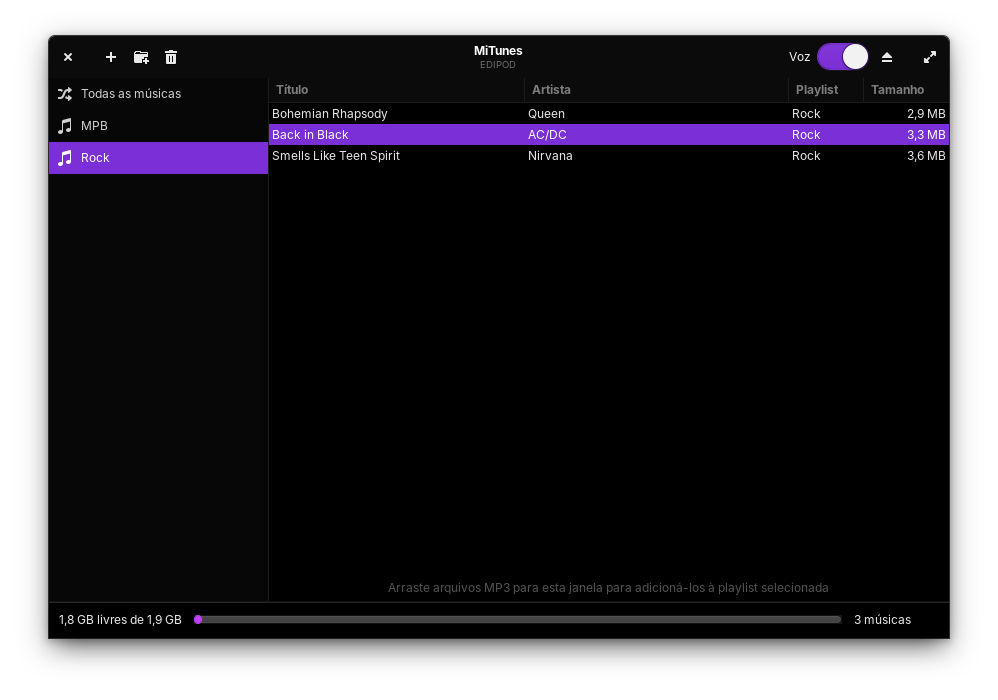
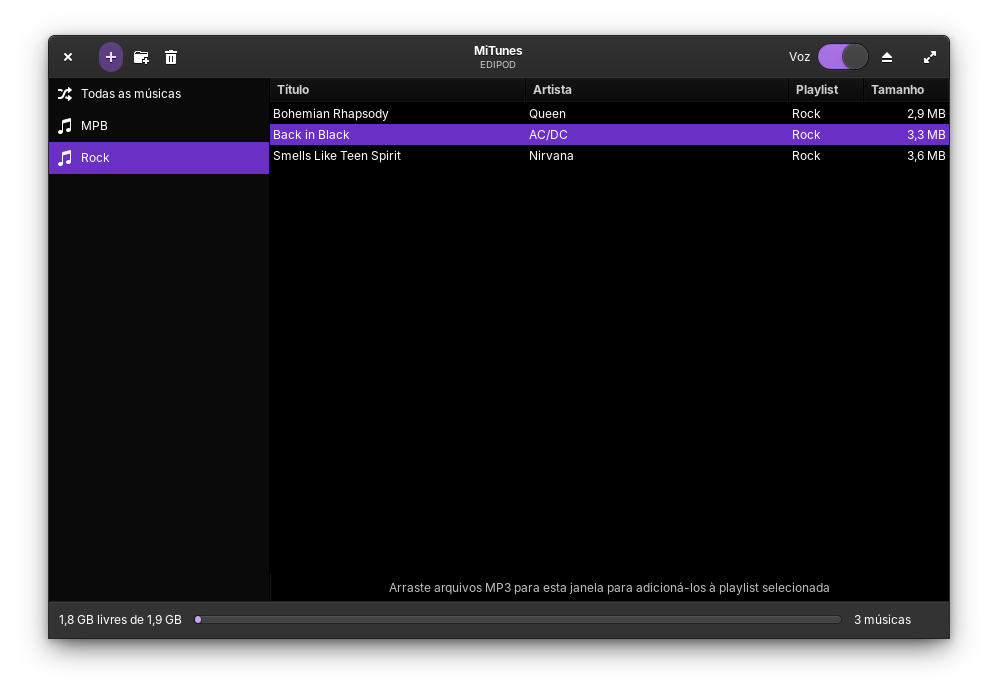
MiTunes: tema escuro nativo, icone preto e alerta de virus compacto
Usa o tema escuro do elementary com destaque roxo (grape) em vez de
sobrescrever cores, para botoes e dialogos ficarem legiveis. Icone preto
com nota roxa. Aviso de virus vira um icone pequeno na barra de titulo.

Changed region(s): [[0.0311, 0.03, 0.9629, 0.24], [0.0311, 0.81, 0.9629, 0.93]]

diff --git a/mitunes.py b/mitunes.py
@@ -25,52 +25,32 @@ from gi.repository import Gdk, GLib, Gtk, Pango  # noqa: E402
 import shuffle_sync  # noqa: E402
 
 TODAS = "__todas__"
+SUSPEITOS = ("Activador.vbs",)
+INVALIDOS_FAT = re.compile(r'[<>:"/\\|?*\x00-\x1f]')
 
-# Tema preto: fundo preto de verdade, texto claro e destaque no roxo do icone
+# Tema preto: usa o tema escuro nativo do elementary com destaque roxo ("grape"), para botoes,
+# dialogos e campos ficarem corretos, e so escurece as areas de conteudo ate o preto.
+TEMA_ROXO = "io.elementary.stylesheet.grape"
 CSS_PRETO = b"""
-window, .background, stack, scrolledwindow, viewport { background-color: #000000; color: #e8e8e8; }
-headerbar, .titlebar {
-    background: #0b0b0b; border-color: #1c1c1c; box-shadow: none; color: #f2f2f2;
-}
-headerbar .title { color: #ffffff; }
-headerbar .subtitle { color: #8c8c8c; }
-headerbar button { color: #e8e8e8; background: transparent; border-color: transparent; box-shadow: none; }
-headerbar button:hover { background: #1f1f1f; }
-headerbar button:disabled { color: #4a4a4a; }
-list.sidebar, .sidebar { background-color: #070707; border-right: 1px solid #1c1c1c; }
-list.sidebar row { color: #d0d0d0; }
-list.sidebar row:selected, list.sidebar row:selected label, list.sidebar row:selected image {
-    background-color: #7b2fd6; color: #ffffff;
-}
-treeview.view { background-color: #000000; color: #e8e8e8; }
-treeview.view:selected { background-color: #7b2fd6; color: #ffffff; }
-treeview.view header button {
-    background: #0b0b0b; color: #9a9a9a; border-color: #1c1c1c; box-shadow: none;
-}
-.dim-label { color: #6f6f6f; }
-separator { background-color: #1c1c1c; }
-paned > separator {  /* a linha visivel vem da borda da barra lateral */
-    background-color: transparent; background-image: none; border: none; box-shadow: none; min-width: 0;
-}
-levelbar trough { background-color: #1a1a1a; border-color: #262626; }
-levelbar block.filled { background-color: #c03cff; border-color: #c03cff; }
-switch { background-color: #2a2a2a; border-color: #3a3a3a; }
-switch:checked { background-color: #7b2fd6; border-color: #7b2fd6; }
-switch slider { background: #f2f2f2; border-color: #3a3a3a; }
-dialog, messagedialog, filechooser { background-color: #0b0b0b; color: #e8e8e8; }
-entry { background-color: #141414; color: #ffffff; border-color: #2a2a2a; }
+treeview.view, scrolledwindow, viewport, stack { background-color: #000000; }
+treeview.view header button { background-color: #0a0a0a; }
+list.sidebar { background-color: #0a0a0a; }
+treeview.view:selected, treeview.view:selected:backdrop,
+list.sidebar row:selected, list.sidebar row:selected:backdrop { background-color: #6a2fc4; color: #ffffff; }
+list.sidebar row:selected label, list.sidebar row:selected image { color: #ffffff; }
+button.mitunes-alerta image, button.mitunes-alerta:backdrop image { color: #ff6b6b; -gtk-icon-palette: warning #ff6b6b; }
 """
 
 
 def aplicar_tema_preto():
     configuracoes = Gtk.Settings.get_default()
+    if Path("/usr/share/themes", TEMA_ROXO).is_dir():
+        configuracoes.set_property("gtk-theme-name", TEMA_ROXO)
     configuracoes.set_property("gtk-application-prefer-dark-theme", True)
     provedor = Gtk.CssProvider()
     provedor.load_from_data(CSS_PRETO)
     Gtk.StyleContext.add_provider_for_screen(Gdk.Screen.get_default(), provedor,
                                              Gtk.STYLE_PROVIDER_PRIORITY_APPLICATION)
-SUSPEITOS = ("Activador.vbs",)
-INVALIDOS_FAT = re.compile(r'[<>:"/\\|?*\x00-\x1f]')
 
 
 def achar_ipod():
@@ -123,6 +103,13 @@ class Janela(Gtk.ApplicationWindow):
         self.bt_ejetar.connect("clicked", self.on_ejetar)
         cabecalho.pack_end(self.bt_ejetar)
 
+        # Aviso de virus: so um icone pequeno de alerta, que aparece quando ha virus no iPod
+        self.bt_virus = Gtk.Button.new_from_icon_name("dialog-warning-symbolic", Gtk.IconSize.BUTTON)
+        self.bt_virus.get_style_context().add_class("mitunes-alerta")
+        self.bt_virus.connect("clicked", self.on_remover_virus)
+        self.bt_virus.set_no_show_all(True)
+        cabecalho.pack_end(self.bt_virus)
+
         self.sw_voz = Gtk.Switch(active=self.cfg.get("voz", True), valign=Gtk.Align.CENTER)
         self.sw_voz.connect("notify::active", self.on_voz)
         caixa_voz = Gtk.Box(spacing=6)
@@ -133,14 +120,6 @@ class Janela(Gtk.ApplicationWindow):
 
         raiz = Gtk.Box(orientation=Gtk.Orientation.VERTICAL)
         self.add(raiz)
-
-        # Aviso de virus
-        self.aviso = Gtk.InfoBar(message_type=Gtk.MessageType.WARNING, show_close_button=False)
-        self.aviso_texto = Gtk.Label(xalign=0, wrap=True)
-        self.aviso.get_content_area().add(self.aviso_texto)
-        self.aviso.add_button("Remover vírus", 1)
-        self.aviso.connect("response", self.on_remover_virus)
-        raiz.pack_start(self.aviso, False, False, 0)
 
         self.pilha = Gtk.Stack(transition_type=Gtk.StackTransitionType.CROSSFADE)
         raiz.pack_start(self.pilha, True, True, 0)
@@ -234,7 +213,7 @@ class Janela(Gtk.ApplicationWindow):
         if not conectado:
             self.cabecalho.set_subtitle("Desconectado")
             self.pilha.set_visible_child_name("vazio")
-            self.aviso.hide()
+            self.bt_virus.hide()
             self.espaco.set_text("")
             self.barra.set_value(0)
             self.status.set_text("")
@@ -301,13 +280,12 @@ class Janela(Gtk.ApplicationWindow):
         self.espaco.set_text(f"{tamanho_legivel(uso.free)} livres de {tamanho_legivel(uso.total)}")
 
     def verificar_virus(self):
-        achados = [n for n in SUSPEITOS if (self.ipod / n).exists()]
-        if achados:
-            self.aviso_texto.set_markup(f"<b>Vírus encontrado no iPod:</b> {', '.join(achados)} (Houdini, um vírus de Windows). "
-                                        "Ele não afeta as músicas, mas pode infectar um PC com Windows.")
-            self.aviso.show_all()
+        self.virus = [n for n in SUSPEITOS if (self.ipod / n).exists()]
+        if self.virus:
+            self.bt_virus.set_tooltip_text(f"Vírus no iPod: {', '.join(self.virus)} — clique para remover")
+            self.bt_virus.show()
         else:
-            self.aviso.hide()
+            self.bt_virus.hide()
 
     # ---------- Sincronizacao em segundo plano ----------
 
@@ -436,16 +414,25 @@ class Janela(Gtk.ApplicationWindow):
         if self.ipod:
             self.trabalhar("Atualizando a voz...", lambda: None)
 
-    def on_remover_virus(self, _barra, resposta):
-        if resposta != 1 or not self.ipod:
+    def on_remover_virus(self, _):
+        if not self.ipod or not self.virus:
             return
-        for nome in SUSPEITOS:
+        dialogo = Gtk.MessageDialog(transient_for=self, modal=True, message_type=Gtk.MessageType.WARNING,
+                                    buttons=Gtk.ButtonsType.NONE, text="Remover vírus do iPod?")
+        dialogo.format_secondary_text(f"{', '.join(self.virus)} é um vírus de Windows (Houdini). "
+                                      "Ele não afeta as músicas, mas pode infectar um PC com Windows.")
+        dialogo.add_buttons("Cancelar", Gtk.ResponseType.CANCEL, "Remover", Gtk.ResponseType.OK)
+        dialogo.get_widget_for_response(Gtk.ResponseType.OK).get_style_context().add_class("destructive-action")
+        resposta = dialogo.run()
+        dialogo.destroy()
+        if resposta != Gtk.ResponseType.OK:
+            return
+        for nome in self.virus:
             alvo = self.ipod / nome
             if alvo.exists():
                 alvo.unlink()
         os.sync()
         self.verificar_virus()
-        self.mensagem("Vírus removido", "O arquivo Activador.vbs foi apagado do iPod.")
 
     def on_ejetar(self, _):
         alvo = str(self.ipod)
